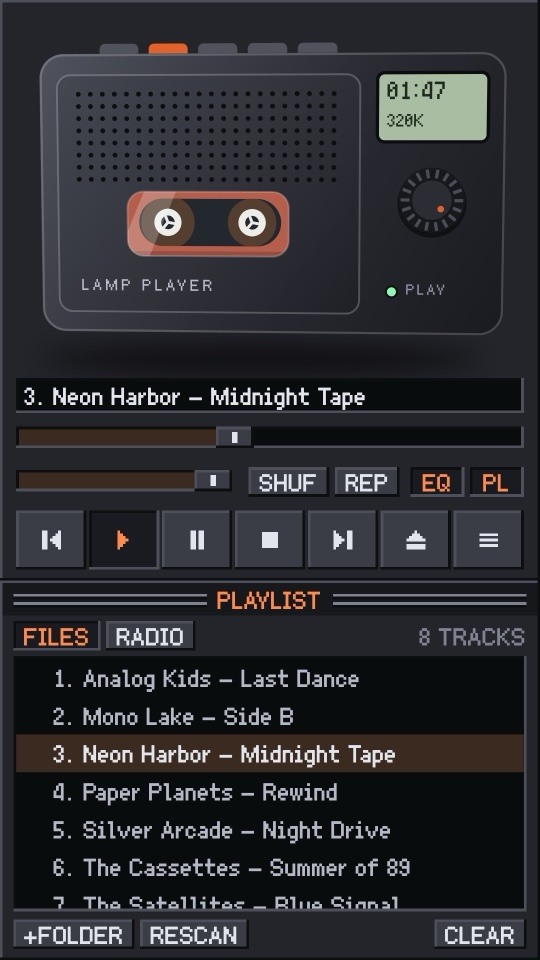
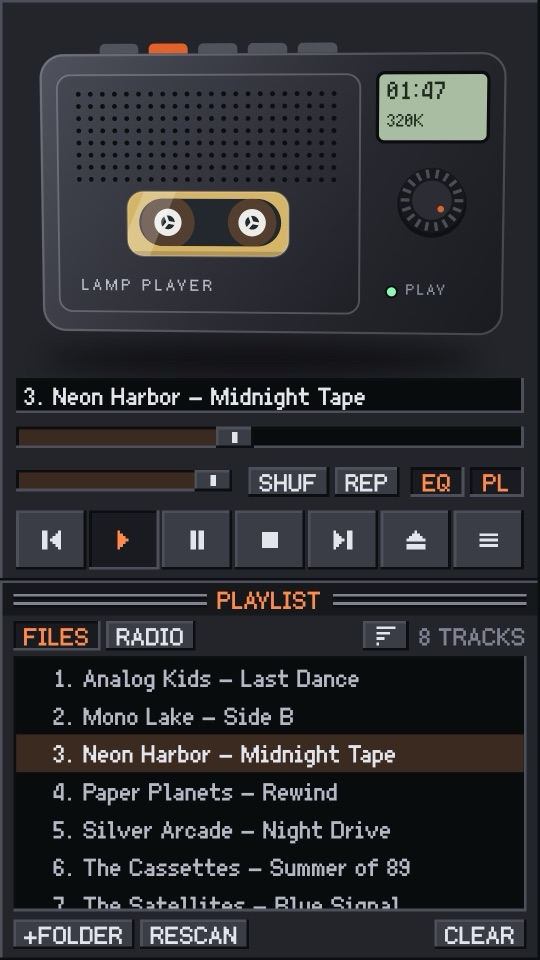
Update the site for Lamp Player 0.0.4
Five skins instead of four, with a picture of the car skin; playlist
sorting among the features; the download button gives 0.0.4. The version
history gets pictures for each version that changed how the player looks,
and all screenshots are redone from the 0.0.4 store set.

Changed region(s): [[0.237, 0.1875, 0.5333, 0.2812], [0.6519, 0.625, 0.7704, 0.6875]]

diff --git a/ru.html b/ru.html
@@ -4,7 +4,7 @@
 <meta charset="utf-8">
 <meta name="viewport" content="width=device-width, initial-scale=1">
 <title>Lamp Player — ретро-плеер для своей музыки и радио</title>
-<meta name="description" content="Lamp Player: ретро-плеер для своих музыкальных файлов и интернет-радио, со скинами «классика», «кассетная дека», «плеер 3D» и «ламповый приёмник».">
+<meta name="description" content="Lamp Player: ретро-плеер для своих музыкальных файлов и интернет-радио, со скинами «классика», «кассетная дека», «плеер 3D», «ламповый приёмник» и «авто».">
 <link rel="icon" href="img/favicon.png">
 <link rel="stylesheet" href="style.css">
 <script src="analytics.js" defer></script>
@@ -20,8 +20,8 @@
     <img src="img/icon.png" alt="Значок Lamp Player: кассета с зелёным спектром на наклейке">
     <div>
       <h1>LAMP PLAYER</h1>
-      <p>Ретро-плеер для своей музыки и интернет-радио. Четыре скина, кассеты, которые можно менять, плеер, который поворачивается от наклона телефона, и клавиши, которые щёлкают.</p>
-      <a class="badge go" data-download="apk" href="https://github.com/alks801/lamp-player-site/releases/download/v0.0.3/LampPlayer-0.0.3-arm64.apk">Скачать APK · Android · 0.0.3</a>
+      <p>Ретро-плеер для своей музыки и интернет-радио. Пять скинов, кассеты, которые можно менять, плеер, который поворачивается от наклона телефона, и клавиши, которые щёлкают.</p>
+      <a class="badge go" data-download="apk" href="https://github.com/alks801/lamp-player-site/releases/download/v0.0.4/LampPlayer-0.0.4-arm64.apk">Скачать APK · Android · 0.0.4</a>
       <span class="badge soon">Google Play: скоро</span>
       <p class="note"><a href="changelog-ru.html">Что нового в этой версии</a></p>
       <p class="note">30 МБ, для телефонов с 64-битным процессором (почти все телефоны с 2017 года). Android попросит разрешить установку из браузера: для приложения не из магазина это нормально.</p>
@@ -33,15 +33,17 @@
     <img src="img/2-cassette-ru.jpg" alt="Скин «кассетная дека» с вращающимися катушками">
     <img src="img/4-player-3d-ru.jpg" alt="Скин «Плеер 3D»: объёмный портативный кассетник, слегка повёрнутый">
     <img src="img/3-valve-radio-ru.jpg" alt="Скин «ламповый приёмник» с подсвеченной шкалой и светящимися лампами">
+    <img src="img/5-car-ru.jpg" alt="Скин «Авто»: крупные клавиши, крупное название трека и плейлист с высокими строками">
   </div>
 
   <div class="panel">
-    <h2>ЧЕТЫРЕ СКИНА</h2>
+    <h2>ПЯТЬ СКИНОВ</h2>
     <ul>
       <li>Классика: окно настольного плеера с ЖК-часами и анализатором спектра</li>
       <li>Кассетная дека: катушки вращаются, лента перематывается с одной на другую</li>
       <li>Плеер 3D: объёмный портативный кассетник; дверца откидывается, а сам плеер поворачивается от наклона телефона</li>
       <li>Ламповый приёмник: деревянный корпус, светящиеся лампы, шкала и «магический глаз»</li>
+      <li>Авто: классика с крупными клавишами и крупным текстом, для телефона в автомобильном держателе</li>
     </ul>
   </div>
 
@@ -58,6 +60,7 @@
     <ul>
       <li>MP3, FLAC, M4A/AAC, Ogg, Opus, WAV и другие форматы из выбранных папок</li>
       <li>Без пауз между треками, перемешивание, повтор, управление с экрана блокировки и наушников</li>
+      <li>Сортировка плейлиста по имени или по дате</li>
       <li>Старые русские теги в Windows-1251 показываются правильно</li>
       <li>31 встроенная станция на пяти языках или любой адрес потока</li>
       <li>Эквалайзер на 10 полос с пресетами и клавиша «Стоп», которая останавливает музыку, как кассету</li>

diff --git a/index.html b/index.html
@@ -4,7 +4,7 @@
 <meta charset="utf-8">
 <meta name="viewport" content="width=device-width, initial-scale=1">
 <title>Lamp Player — retro player for your music and radio</title>
-<meta name="description" content="Lamp Player: a retro player for your own music files and internet radio, with classic, cassette deck, 3D player and valve radio skins.">
+<meta name="description" content="Lamp Player: a retro player for your own music files and internet radio, with classic, cassette deck, 3D player, valve radio and car skins.">
 <link rel="icon" href="img/favicon.png">
 <link rel="stylesheet" href="style.css">
 <script src="analytics.js" defer></script>
@@ -20,8 +20,8 @@
     <img src="img/icon.png" alt="Lamp Player icon: a cassette with a green spectrum on its label">
     <div>
       <h1>LAMP PLAYER</h1>
-      <p>A retro player for your own music and internet radio. Four skins, cassettes you can swap, a player that turns as you tilt the phone, and keys that click.</p>
-      <a class="badge go" data-download="apk" href="https://github.com/alks801/lamp-player-site/releases/download/v0.0.3/LampPlayer-0.0.3-arm64.apk">Download APK · Android · 0.0.3</a>
+      <p>A retro player for your own music and internet radio. Five skins, cassettes you can swap, a player that turns as you tilt the phone, and keys that click.</p>
+      <a class="badge go" data-download="apk" href="https://github.com/alks801/lamp-player-site/releases/download/v0.0.4/LampPlayer-0.0.4-arm64.apk">Download APK · Android · 0.0.4</a>
       <span class="badge soon">Google Play: coming soon</span>
       <p class="note"><a href="changelog.html">What is new in this version</a></p>
       <p class="note">30 MB, for phones with a 64-bit processor (almost every phone since 2017). Android will ask you to allow installing from your browser: that is normal for an app from outside the store.</p>
@@ -33,15 +33,17 @@
     <img src="img/2-cassette-en.jpg" alt="Cassette deck skin with turning reels">
     <img src="img/4-player-3d-en.jpg" alt="3D player skin: a portable cassette player with depth, turned slightly">
     <img src="img/3-valve-radio-en.jpg" alt="Valve radio skin with a lit dial and glowing valves">
+    <img src="img/5-car-en.jpg" alt="Car skin: big keys, a big track title and a playlist with tall rows">
   </div>
 
   <div class="panel">
-    <h2>FOUR SKINS</h2>
+    <h2>FIVE SKINS</h2>
     <ul>
       <li>Classic: a desktop-player window with an LCD clock and a spectrum analyzer</li>
       <li>Cassette deck: the reels turn and the tape winds from one reel to the other</li>
       <li>3D player: a portable cassette player with real depth; its door swings open and it turns as you tilt the phone</li>
       <li>Valve radio: a walnut cabinet, glowing valves, a lit dial and a magic eye</li>
+      <li>Car: the classic look with big keys and big text, for a phone in a car holder</li>
     </ul>
   </div>
 
@@ -58,6 +60,7 @@
     <ul>
       <li>MP3, FLAC, M4A/AAC, Ogg, Opus, WAV and more, from the folders you choose</li>
       <li>Gapless playback, shuffle, repeat, lock screen and headset controls</li>
+      <li>Sort the playlist by name or by date</li>
       <li>31 built-in stations in five languages, or any stream address you add</li>
       <li>10-band equalizer with presets, and a Stop key that winds down like a tape deck</li>
     </ul>

diff --git a/changelog-ru.html b/changelog-ru.html
@@ -20,6 +20,20 @@
   <p>Что менялось в каждой версии. Последнюю можно <a href="ru.html">скачать на главной странице</a>; она ставится поверх прежней, настройки и папки с музыкой сохраняются.</p>
 
   <div class="panel">
+    <h2>0.0.4 <span class="date">28 ноября 2026</span></h2>
+    <ul>
+      <li>Новый скин «Авто»: классика с крупными клавишами и крупным текстом, для телефона в автомобильном держателе. Название играющего трека прокручивается бегущей строкой</li>
+      <li>Сортировка плейлиста: по имени или по дате файла, в обе стороны</li>
+      <li>Управление с клавиатуры: пробел — плей и пауза, стрелки — треки и громкость</li>
+      <li>При добавлении станции курсор сразу встаёт в поле адреса</li>
+    </ul>
+    <div class="pics">
+      <a href="img/5-car-ru.jpg"><img src="img/5-car-ru.jpg" alt="Скин «Авто»"></a>
+      <a href="img/sort-ru.jpg"><img src="img/sort-ru.jpg" alt="Список порядков сортировки плейлиста"></a>
+    </div>
+  </div>
+
+  <div class="panel">
     <h2>0.0.3 <span class="date">28 ноября 2026</span></h2>
     <ul>
       <li>Исправлена работа перемешивания и порядка треков</li>
@@ -39,6 +53,10 @@
       <li>В скине «Кассета» у деки появилась дверца, кассеты меняются и в ней</li>
       <li>Кассетные скины отзываются на наклон телефона; эффект отключается в настройках</li>
     </ul>
+    <div class="pics">
+      <a href="img/4-player-3d-ru.jpg"><img src="img/4-player-3d-ru.jpg" alt="Скин «Плеер 3D»"></a>
+      <a href="img/2-cassette-ru.jpg"><img src="img/2-cassette-ru.jpg" alt="Скин «Кассета» с кассетой в деке"></a>
+    </div>
   </div>
 
   <div class="panel">
@@ -52,6 +70,11 @@
       <li>Вертикальный и горизонтальный режим, пять языков интерфейса</li>
       <li>Игра в фоне, управление с экрана блокировки и кнопками наушников</li>
     </ul>
+    <div class="pics">
+      <a href="img/1-classic-ru.jpg"><img src="img/1-classic-ru.jpg" alt="Классический скин"></a>
+      <a href="img/3-valve-radio-ru.jpg"><img src="img/3-valve-radio-ru.jpg" alt="Скин «ламповый приёмник»"></a>
+      <a href="img/landscape-ru.jpg" class="across"><img src="img/landscape-ru.jpg" alt="Горизонтальный режим"></a>
+    </div>
   </div>
 
   <footer>

diff --git a/changelog.html b/changelog.html
@@ -20,6 +20,20 @@
   <p>What changed in each version. The latest one is <a href="./">on the home page</a>; it installs over the previous one and keeps your settings and music folders.</p>
 
   <div class="panel">
+    <h2>0.0.4 <span class="date">November 28, 2026</span></h2>
+    <ul>
+      <li>A new skin, Car: the classic look with big keys and big text, for a phone in a car holder. The title of the playing track scrolls when it does not fit</li>
+      <li>Playlist sorting: by name or by file date, either way</li>
+      <li>Keyboard control: space plays and pauses, the arrows step through tracks and set the volume</li>
+      <li>Adding a station puts the cursor straight into the address field</li>
+    </ul>
+    <div class="pics">
+      <a href="img/5-car-en.jpg"><img src="img/5-car-en.jpg" alt="Car skin"></a>
+      <a href="img/sort-en.jpg"><img src="img/sort-en.jpg" alt="The list of playlist orders"></a>
+    </div>
+  </div>
+
+  <div class="panel">
     <h2>0.0.3 <span class="date">November 28, 2026</span></h2>
     <ul>
       <li>Shuffle and the order of tracks are fixed</li>
@@ -39,6 +53,10 @@
       <li>The Cassette skin's deck has a door too, and its cassettes can be swapped as well</li>
       <li>The cassette skins respond to tilting the phone; the effect can be turned off in the settings</li>
     </ul>
+    <div class="pics">
+      <a href="img/4-player-3d-en.jpg"><img src="img/4-player-3d-en.jpg" alt="3D player skin"></a>
+      <a href="img/2-cassette-en.jpg"><img src="img/2-cassette-en.jpg" alt="Cassette skin with a cassette in the deck"></a>
+    </div>
   </div>
 
   <div class="panel">
@@ -52,6 +70,11 @@
       <li>Upright and sideways layouts, five interface languages</li>
       <li>Background playback, lock screen and headset controls</li>
     </ul>
+    <div class="pics">
+      <a href="img/1-classic-en.jpg"><img src="img/1-classic-en.jpg" alt="Classic skin"></a>
+      <a href="img/3-valve-radio-en.jpg"><img src="img/3-valve-radio-en.jpg" alt="Valve radio skin"></a>
+      <a href="img/landscape-en.jpg" class="across"><img src="img/landscape-en.jpg" alt="Sideways layout"></a>
+    </div>
   </div>
 
   <footer>

diff --git a/style.css b/style.css
@@ -56,7 +56,7 @@ a.badge.go:hover { background: #8cffb0; color: #07100a; }
 .panel ul { margin: 0; padding-left: 20px; }
 .panel li { margin: 4px 0; }
 
-.shots { display: grid; grid-template-columns: repeat(4, 1fr); gap: 12px; margin: 24px 0; }
+.shots { display: grid; grid-template-columns: repeat(5, 1fr); gap: 10px; margin: 24px 0; }
 .shots img { width: 100%; border: 2px solid var(--edge-dark); }
 .wide img { width: 100%; border: 2px solid var(--edge-dark); }
 
@@ -66,6 +66,10 @@ a.badge.go:hover { background: #8cffb0; color: #07100a; }
 
 h1.page { margin: 32px 0 8px; font-size: 26px; letter-spacing: 3px; color: var(--green); }
 .panel h2 .date { margin-left: 10px; font-size: 14px; letter-spacing: 0; color: var(--muted); }
+.pics { display: flex; flex-wrap: wrap; gap: 12px; margin-top: 18px; }
+.pics a { display: block; width: 180px; }
+.pics a.across { width: 372px; }
+.pics img { display: block; width: 100%; border: 2px solid var(--edge-dark); }
 footer { margin-top: 40px; color: var(--muted); font-size: 14px; }
 
 @media (max-width: 640px) {

diff --git a/README.md b/README.md
@@ -4,7 +4,7 @@
 
 - https://alks801.github.io/lamp-player-site/ — главная (английский)
 - https://alks801.github.io/lamp-player-site/ru.html — главная (русский)
-- https://alks801.github.io/lamp-player-site/changelog.html и `changelog-ru.html` — история версий: коротко, что нового в каждой. При выпуске новой версии её блок добавляется сверху на обеих страницах
+- https://alks801.github.io/lamp-player-site/changelog.html и `changelog-ru.html` — история версий: коротко, что нового в каждой. При выпуске новой версии её блок добавляется сверху на обеих страницах, с картинками из `img/` (блок `<div class="pics">`)
 - https://alks801.github.io/lamp-player-site/privacy.html — политика конфиденциальности, ссылка для Google Play
 - https://alks801.github.io/lamp-player-site/thanks.html — переадресация на страницу благодарности автору. Клавиша «Сказать спасибо» в приложении открывает именно этот адрес, поэтому его нельзя менять или удалять. Если страница оплаты переедет, новый адрес вписывается в `thanks.html` (в трёх местах), а приложение пересобирать не нужно
 
